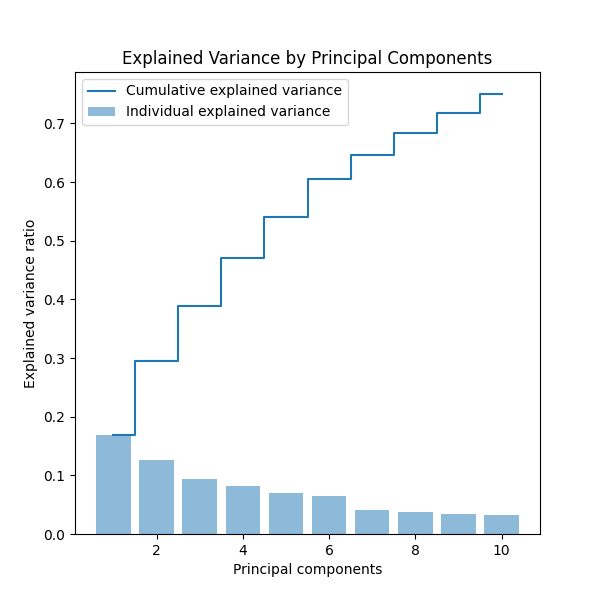
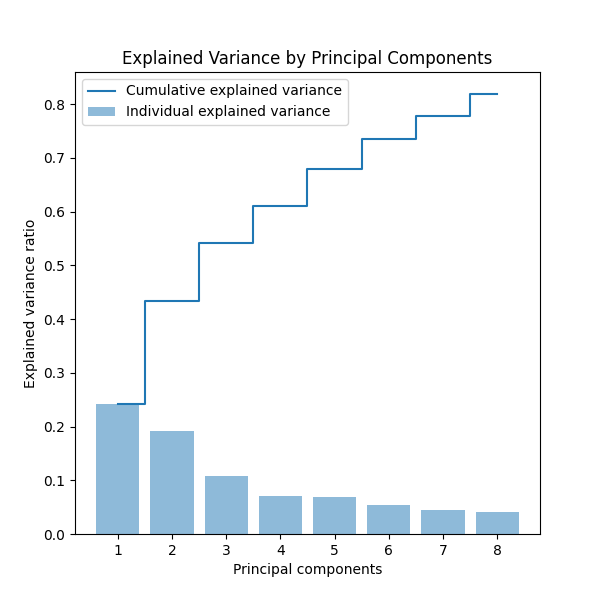
commit

diff --git a/envs/StickInsectEnv_disc.py b/envs/StickInsectEnv_disc.py
@@ -130,105 +130,96 @@ class StickInsectEnv(MujocoEnv, utils.EzPickle):
         terminated = not self.is_healthy if self._terminate_when_unhealthy else False
         return terminated
 
+    # def step(self, action):
+    #     xy_position_before = self.get_body_com("torso")[:2].copy()
+    #     self.do_simulation(action, self.frame_skip)
+    #     xy_position_after = self.get_body_com("torso")[:2].copy()
+
+    #     xy_velocity = (xy_position_after - xy_position_before) / self.dt
+    #     x_velocity, y_velocity = xy_velocity
+
+    #     forward_reward = x_velocity * 10
+    #     healthy_reward = self.healthy_reward
+
+    #     rewards = forward_reward + healthy_reward
+
+    #     costs = ctrl_cost = self.control_cost(action)
+
+    #     terminated = self.terminated
+    #     observation = self._get_obs()
+    #     info = {
+    #         "reward_forward": forward_reward,
+    #         "reward_ctrl": -ctrl_cost,
+    #         "reward_survive": healthy_reward,
+    #         "x_position": xy_position_after[0],
+    #         "y_position": xy_position_after[1],
+    #         "distance_from_origin": np.linalg.norm(xy_position_after, ord=2),
+    #         "x_velocity": x_velocity,
+    #         "y_velocity": y_velocity,
+    #         "forward_reward": forward_reward,
+    #     }
+    #     if self._use_contact_forces:
+    #         contact_cost = self.contact_cost
+    #         costs += contact_cost
+    #         info["reward_ctrl"] = -contact_cost
+
+    #     reward = rewards - costs
+
+    #     if self.render_mode == "human":
+    #         self.render()
+    #     # truncation=False as the time limit is handled by the `TimeLimit` wrapper added during `make`
+    #     return observation, rewards, terminated, False, info
+
+    # def _get_obs(self):
+    #     position = self.data.qpos.flat.copy()
+    #     velocity = self.data.qvel.flat.copy()
+
+    #     if self._exclude_current_positions_from_observation:
+    #         position = position[2:]
+
+    #     if self._use_contact_forces:
+    #         contact_force = self.contact_forces.flat.copy()
+    #         return np.concatenate((position, velocity, contact_force))
+    #     else:
+    #         return np.concatenate((position, velocity))
+
+    # def reset_model(self):
+    #     # noise_low = -self._reset_noise_scale
+    #     # noise_high = self._reset_noise_scale
+
+    #     # qpos = self.init_qpos + self.np_random.uniform(
+    #     #     low=noise_low, high=noise_high, size=self.model.nq
+    #     # )
+    #     # qvel = (
+    #     #     self.init_qvel
+    #     #     + self._reset_noise_scale * self.np_random.standard_normal(self.model.nv)
+    #     # )
+    #     # self.set_state(qpos, qvel)
+
+    #     # observation = self._get_obs()
+
+    #     qpos = self.init_qpos
+    #     qvel = self.init_qvel
+    #     self.set_state(qpos, qvel)
+    #     observation = self._get_obs()
+
+    #     return observation
+
+    def reset(self):
+        obs = self.original_env.reset()
+        return self._transform_observation(obs)
+
     def step(self, action):
-        xy_position_before = self.get_body_com("torso")[:2].copy()
-        self.do_simulation(action, self.frame_skip)
-        xy_position_after = self.get_body_com("torso")[:2].copy()
+        obs, reward, done, info = self.original_env.step(action)
+        transformed_obs = self._transform_observation(obs)
+        return transformed_obs, reward, done, info
 
-        xy_velocity = (xy_position_after - xy_position_before) / self.dt
-        x_velocity, y_velocity = xy_velocity
-
-        forward_reward = x_velocity * 10
-        healthy_reward = self.healthy_reward
-
-        rewards = forward_reward + healthy_reward
-
-        costs = ctrl_cost = self.control_cost(action)
-
-        terminated = self.terminated
-        observation = self._get_obs()
-        info = {
-            "reward_forward": forward_reward,
-            "reward_ctrl": -ctrl_cost,
-            "reward_survive": healthy_reward,
-            "x_position": xy_position_after[0],
-            "y_position": xy_position_after[1],
-            "distance_from_origin": np.linalg.norm(xy_position_after, ord=2),
-            "x_velocity": x_velocity,
-            "y_velocity": y_velocity,
-            "forward_reward": forward_reward,
-        }
-        if self._use_contact_forces:
-            contact_cost = self.contact_cost
-            costs += contact_cost
-            info["reward_ctrl"] = -contact_cost
-
-        reward = rewards - costs
-
-        if self.render_mode == "human":
-            self.render()
-        # truncation=False as the time limit is handled by the `TimeLimit` wrapper added during `make`
-        return observation, rewards, terminated, False, info
-
-    def _get_obs(self):
-        position = self.data.qpos.flat.copy()
-        velocity = self.data.qvel.flat.copy()
-
-        if self._exclude_current_positions_from_observation:
-            position = position[2:]
-        
-        observations = np.concatenate((position, velocity)).reshape(-1, 1)
-
-        # Standardize the data
-        scaler = StandardScaler()
-        scaled_data = scaler.fit_transform(observations)
-
-        # Apply PCA
-        pca_dimension = self.pca_dimension
-        pca = PCA(n_components=pca_dimension)  # Set the number of components to reduce to
-        pca_result = pca.fit_transform(scaled_data)
-
-        # Assuming each dimension is discretized into `n_bins` bins
-        n_bins = self.n_bins
-        # Discretizer for each principal component
-        discretizer = KBinsDiscretizer(n_bins=n_bins, encode='ordinal', strategy='uniform')
-        discretized_data = discretizer.fit_transform(pca_result)
-        # Convert discretized data to integer states
-        discretized_states = np.array(discretized_data, dtype=int)
-
-        # Calculate the state frequencies (histogram)
-        state_counts = np.zeros((n_bins,) * pca_dimension, dtype=int)
-        for state in discretized_states:
-            state_counts[tuple(state)] += 1
-        # Normalize the histogram to get state occupancy
-        state_occupancy = state_counts / np.sum(state_counts)
-        # Flatten the state occupancy for use in IRL
-        state_occupancy_flat = state_occupancy.flatten()
-        observation = state_occupancy_flat
-
-        return observation
-
-    def reset_model(self):
-        # noise_low = -self._reset_noise_scale
-        # noise_high = self._reset_noise_scale
-
-        # qpos = self.init_qpos + self.np_random.uniform(
-        #     low=noise_low, high=noise_high, size=self.model.nq
-        # )
-        # qvel = (
-        #     self.init_qvel
-        #     + self._reset_noise_scale * self.np_random.standard_normal(self.model.nv)
-        # )
-        # self.set_state(qpos, qvel)
-
-        # observation = self._get_obs()
-
-        qpos = self.init_qpos
-        qvel = self.init_qvel
-        self.set_state(qpos, qvel)
-        observation = self._get_obs()
-
-        return observation
+    def _transform_observation(self, obs):
+        if self.exclude_xy:
+            obs = obs[2:]  # Exclude the first two elements if exclude_xy is True
+        scaled_obs = self.scaler.transform([obs])  # Scale the observation
+        pca_obs = self.pca.transform(scaled_obs)  # Apply PCA
+        return pca_obs.flatten()
 
 if __name__ == "__main__":
     env = StickInsectEnv(render_mode='human')

diff --git a/train_mce_irl.py b/train_mce_irl.py
@@ -46,8 +46,6 @@ observations = obs_states[0, :-1, 2:] if exclude_xy else obs_states[0, :-1, :] #
 actions = actions[0, :-1, :] 
 next_observations = obs_states[0, 1:, 2:] if exclude_xy else obs_states[0, 1:, :] # Exclude the first step to avoid indexing error
 
-
-
 # Standardize the data
 scaler = StandardScaler()
 scaled_data = scaler.fit_transform(observations)
@@ -78,73 +76,73 @@ plt.savefig('pca_explained_variance.png')
 
 
 
-# Calculate state frequencies (histogram)
-# Assuming each dimension is discretized into `n_bins` bins
-n_bins = config_data['irl']['n_bins']
-# Discretizer for each principal component
-discretizer = KBinsDiscretizer(n_bins=n_bins, encode='ordinal', strategy='uniform')
-discretized_data = discretizer.fit_transform(pca_result)
-# Convert discretized data to integer states
-discretized_states = np.array(discretized_data, dtype=int)
+# # Calculate state frequencies (histogram)
+# # Assuming each dimension is discretized into `n_bins` bins
+# n_bins = config_data['irl']['n_bins']
+# # Discretizer for each principal component
+# discretizer = KBinsDiscretizer(n_bins=n_bins, encode='ordinal', strategy='uniform')
+# discretized_data = discretizer.fit_transform(pca_result)
+# # Convert discretized data to integer states
+# discretized_states = np.array(discretized_data, dtype=int)
 
-# Calculate the state frequencies (histogram)
-state_counts = np.zeros((n_bins,) * pca_dimension, dtype=int)
-for state in discretized_states:
-    state_counts[tuple(state)] += 1
-# Normalize the histogram to get state occupancy
-state_occupancy = state_counts / np.sum(state_counts)
-# Flatten the state occupancy for use in IRL
-state_occupancy_flat = state_occupancy.flatten()
+# # Calculate the state frequencies (histogram)
+# state_counts = np.zeros((n_bins,) * pca_dimension, dtype=int)
+# for state in discretized_states:
+#     state_counts[tuple(state)] += 1
+# # Normalize the histogram to get state occupancy
+# state_occupancy = state_counts / np.sum(state_counts)
+# # Flatten the state occupancy for use in IRL
+# state_occupancy_flat = state_occupancy.flatten()
 
-print("Discretized States Shape:", discretized_states.shape)
-print("State_counts shape:", state_counts.shape)
-print("State Occupancy:", state_occupancy_flat)
-print("State Occupancy Shape:", state_occupancy_flat.shape)
-print("Sum of State Occupancy (should be 1):", np.sum(state_occupancy_flat))
+# print("Discretized States Shape:", discretized_states.shape)
+# print("State_counts shape:", state_counts.shape)
+# print("State Occupancy:", state_occupancy_flat)
+# print("State Occupancy Shape:", state_occupancy_flat.shape)
+# print("Sum of State Occupancy (should be 1):", np.sum(state_occupancy_flat))
 
 
-SEED = config_data['env']['seed']
-horizon = config_data['env']['horizon']
-rng = np.random.default_rng(SEED)
-state_dim = pca_dimension
-action_dim = len(actions[0])
+# SEED = config_data['env']['seed']
+# horizon = config_data['env']['horizon']
+# rng = np.random.default_rng(SEED)
+# state_dim = pca_dimension
+# action_dim = len(actions[0])
 
-# Create the environment
-env = gym.make('StickInsect-v0-disc',
-               exclude_current_positions_from_observation=exclude_xy,
-               max_episode_steps=horizon)
-env = DummyVecEnv([lambda: RolloutInfoWrapper(env)])
-env.horizon = horizon
-env.state_dim = n_bins ** state_dim
-env.action_dim = action_dim
-env.state_space = gym.spaces.Discrete(n_bins ** state_dim)
-env.action_space = gym.spaces.Discrete(action_dim)
-env.observation_matrix = np.eye(n_bins ** state_dim)
-env.transition_matrix = np.zeros((n_bins ** state_dim, action_dim, n_bins ** state_dim))
-env.initial_state_dist = np.zeros(n_bins ** state_dim)
+# # Create the environment
+# env = gym.make('StickInsect-v0-disc',
+#                exclude_current_positions_from_observation=exclude_xy,
+#                max_episode_steps=horizon)
+# env = DummyVecEnv([lambda: RolloutInfoWrapper(env)])
+# env.horizon = horizon
+# env.state_dim = n_bins ** state_dim
+# env.action_dim = action_dim
+# env.state_space = gym.spaces.Discrete(n_bins ** state_dim)
+# env.action_space = gym.spaces.Discrete(action_dim)
+# env.observation_matrix = np.eye(n_bins ** state_dim)
+# env.transition_matrix = np.zeros((n_bins ** state_dim, action_dim, n_bins ** state_dim))
+# env.initial_state_dist = np.zeros(n_bins ** state_dim)
 
-# Initialize reward network
-reward_net = BasicRewardNet(
-    observation_space=env.state_space,
-    action_space=env.action_space,
-    use_state=True,
-    use_action=False,
-    use_next_state=False,
-    use_done=False,
-)
+# # Initialize reward network
+# reward_net = BasicRewardNet(
+#     observation_space=env.state_space,
+#     action_space=env.action_space,
+#     use_state=True,
+#     use_action=False,
+#     use_next_state=False,
+#     use_done=False,
+# )
 
-# Initialize MCE-IRL algorithm
-mce_irl = MCEIRL(
-    demonstrations=state_occupancy_flat,  # Provide state occupancy as demonstrations
-    env=env,
-    reward_net=reward_net,
-    rng=rng,
-)
+# # Initialize MCE-IRL algorithm
+# mce_irl = MCEIRL(
+#     demonstrations=state_occupancy_flat,  # Provide state occupancy as demonstrations
+#     env=env,
+#     reward_net=reward_net,
+#     rng=rng,
+# )
 
-env.seed(SEED)
-mce_irl.train()
+# env.seed(SEED)
+# mce_irl.train()
 
-# save the trained model
-torch.save(mce_irl.policy, "trained_policy_mce_irl.pth")
+# # save the trained model
+# torch.save(mce_irl.policy, "trained_policy_mce_irl.pth")
 
 
